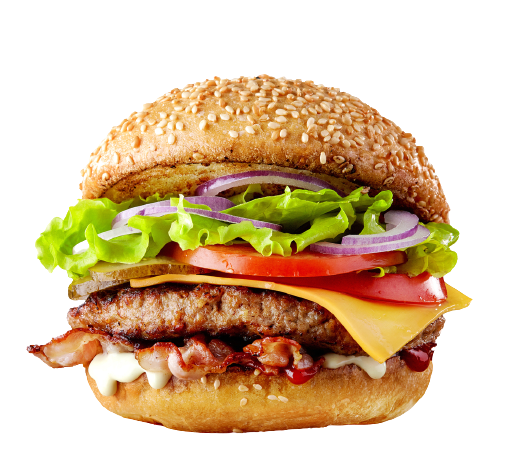
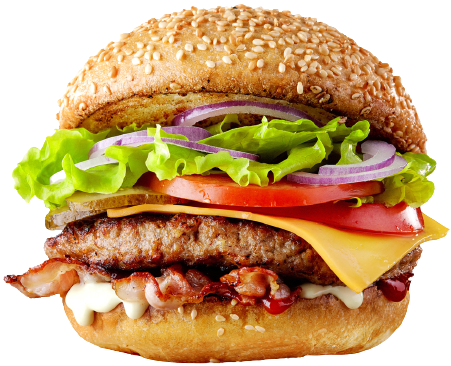
секция order

diff --git a/index.html b/index.html
@@ -52,7 +52,7 @@
                     </div>
                 </div>
                 <button class="btn">ORDER NOW</button>
-                </header>
+
             </div>
         </section>
         <section class="food">
@@ -74,7 +74,8 @@
                         </div>
                         <div class="dish__desc">
                             <div class="dish__title"> Taco Del Mar</div>
-                            <div class="dish__text">Taco Del Mar brings the best out of Mexican cuisine with fresh.</div>
+                            <div class="dish__text">Taco Del Mar brings the best out of Mexican cuisine with fresh.
+                            </div>
                         </div>
 
                     </li>
@@ -94,12 +95,32 @@
                         </div>
                         <div class="dish__desc">
                             <div class="dish__title">Pizza Hut.</div>
-                            <div class="dish__text">Although the Pizza Hut Menu Prices have tumbled over the years.</div>
+                            <div class="dish__text">Although the Pizza Hut Menu Prices have tumbled over the years.
+                            </div>
                         </div>
-                        
+
                     </li>
                 </ul>
             </div>
+            <section class="order">
+                <div class="container order__container">
+                    <div class="order__img-wrap">
+                        <img src="img/content/burger.png" alt="" class="oder__img">
+                    </div>
+                    <div class="order__desc">
+                        <div class="action order__action">
+                            <div class="action__tittle">Burger King</div>
+                            <div class="action__text">Together with McDonald’s, Burger King has grown to become synonymous with burgers in the US.</div>
+                            <div class="action__price">
+                                <span class="action__price-new">6$</span>
+                                <span class="action__price-old">8$</span>
+                            </div>
+                            <button class="btn">ORDER NOW</button>
+                        </div>
+                    </div>
+
+                </div>
+            </section>
         </section>
 
     </div>

diff --git a/css/style.css b/css/style.css
@@ -44,7 +44,7 @@ h6 {
 }
 
 .container {
-  max-width: 1170px;
+  max-width: 1140px;
   margin: 0 auto;
 }
 
@@ -60,9 +60,11 @@ h6 {
 }
 
 .logo__img {
-  width: 100%;
-  height: 100%;
-  object-fit: contain;
+  position: absolute;
+  width: 100px;
+  height: 100px;
+  left: 201px;
+  top: 0px;
 }
 
 .nav {
@@ -180,4 +182,79 @@ h6 {
   font-size: 16px;
   line-height: 19px;
   color: rgba(255, 255, 255, 0.7);
+}
+
+.order {
+  padding: 73px 0px;
+  background: #312f30;
+}
+
+.order__container {
+  display: flex;
+  align-items: center;
+}
+
+.order__img-wrap {
+  width: 50%;
+}
+
+.oder__img {
+  width: 100%;
+  height: 100%;
+  object-fit: contain;
+}
+
+.order__desc {
+  width: 50%;
+  display: flex;
+  justify-content: center;
+}
+
+.action {
+}
+
+.order__action {
+  min-width: 371px;
+  padding: ;
+}
+
+.action__tittle {
+  font-weight: 500;
+  font-size: 44.2px;
+  line-height: 52px;
+  margin-bottom: 24px;
+}
+
+.action__text {
+  font-weight: 400;
+  font-size: 16px;
+  line-height: 19px;
+  color: rgba(255, 255, 255, 0.7);
+  margin-bottom: 13px;
+
+}
+
+.action__price {
+  margin-bottom: 11px;
+}
+
+.action__price-new {
+  font-weight: 500;
+font-size: 20px;
+line-height: 23px;
+letter-spacing: 0.1em;
+color: rgba(246, 118, 44, 1);
+
+}
+
+.action__price-old {
+  font-weight: 500;
+font-size: 16px;
+line-height: 19px;
+letter-spacing: 0.1em;
+text-decoration-line: line-through;
+color: rgba(246, 118, 44, 0.5);
+}
+
+.btn {
 }
